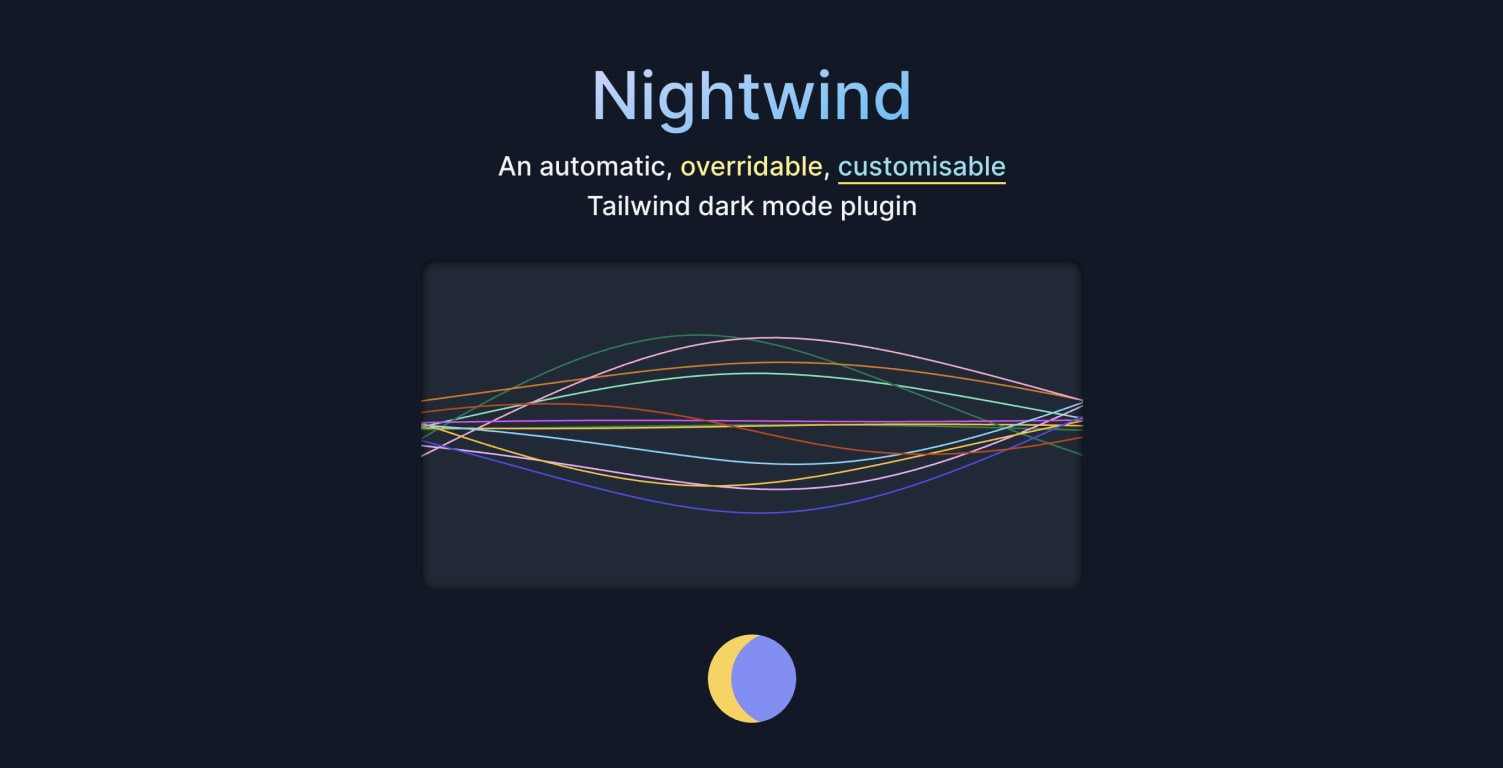
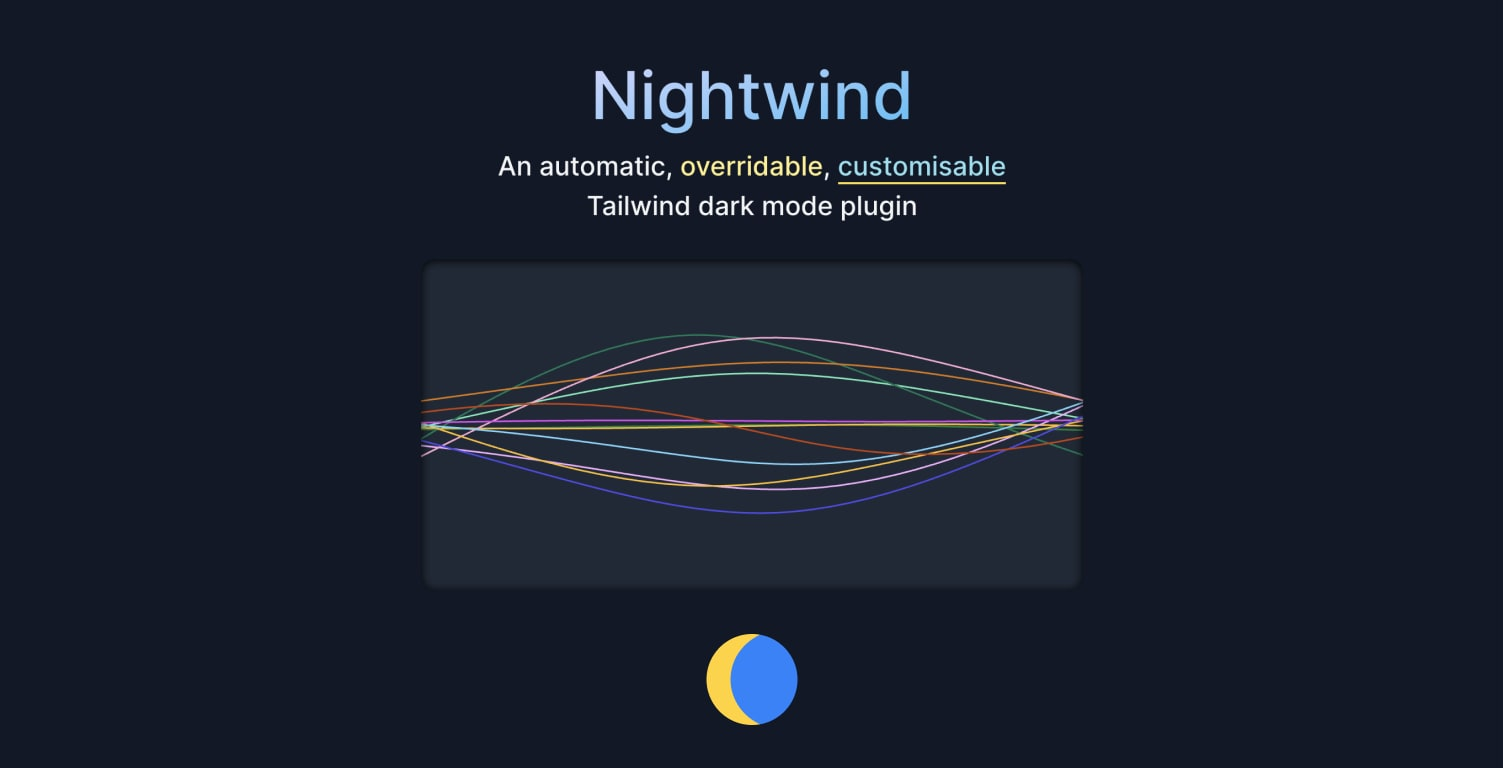
new og card

Changed region(s): [[0.4591, 0.8125, 0.5509, 0.9688]]

diff --git a/nightwindcss.com/layouts/layout.tsx b/nightwindcss.com/layouts/layout.tsx
@@ -26,7 +26,7 @@ export default function Layout({ children }) {
         <meta name="description" content={description} />
 
         <meta property="og:title" content={title} />
-        <meta property="og:image" content="/og_image.jpg" />
+        <meta property="og:image" content="/og_image.png" />
         <meta property="og:description" content={description} />
         <meta property="og:url" content="https://nightwindcss.com" />
 
